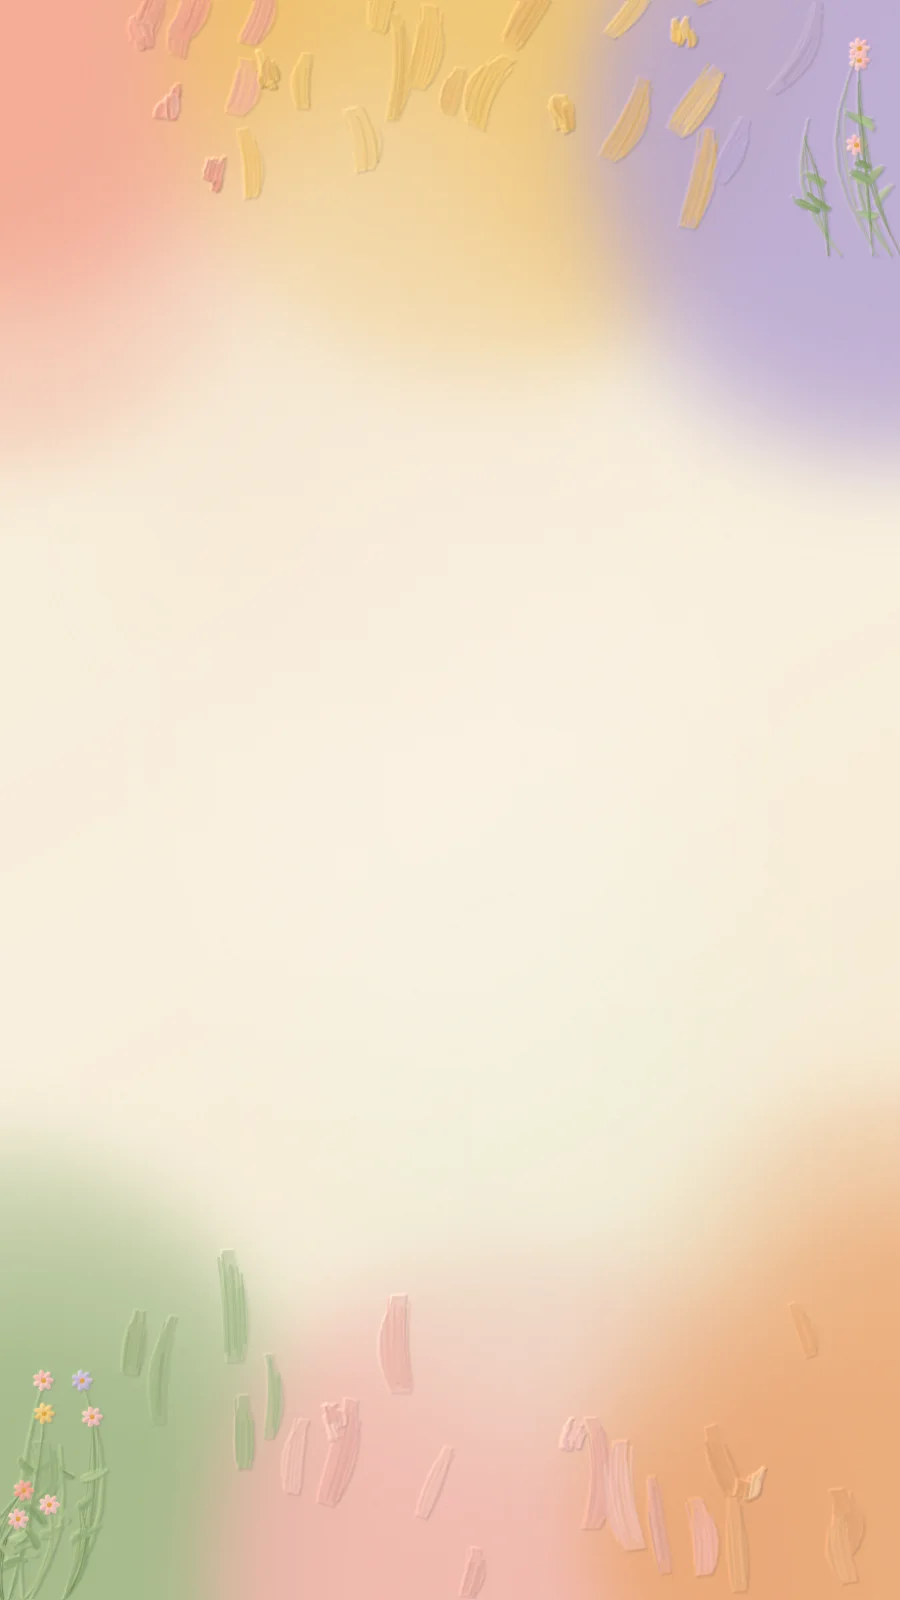
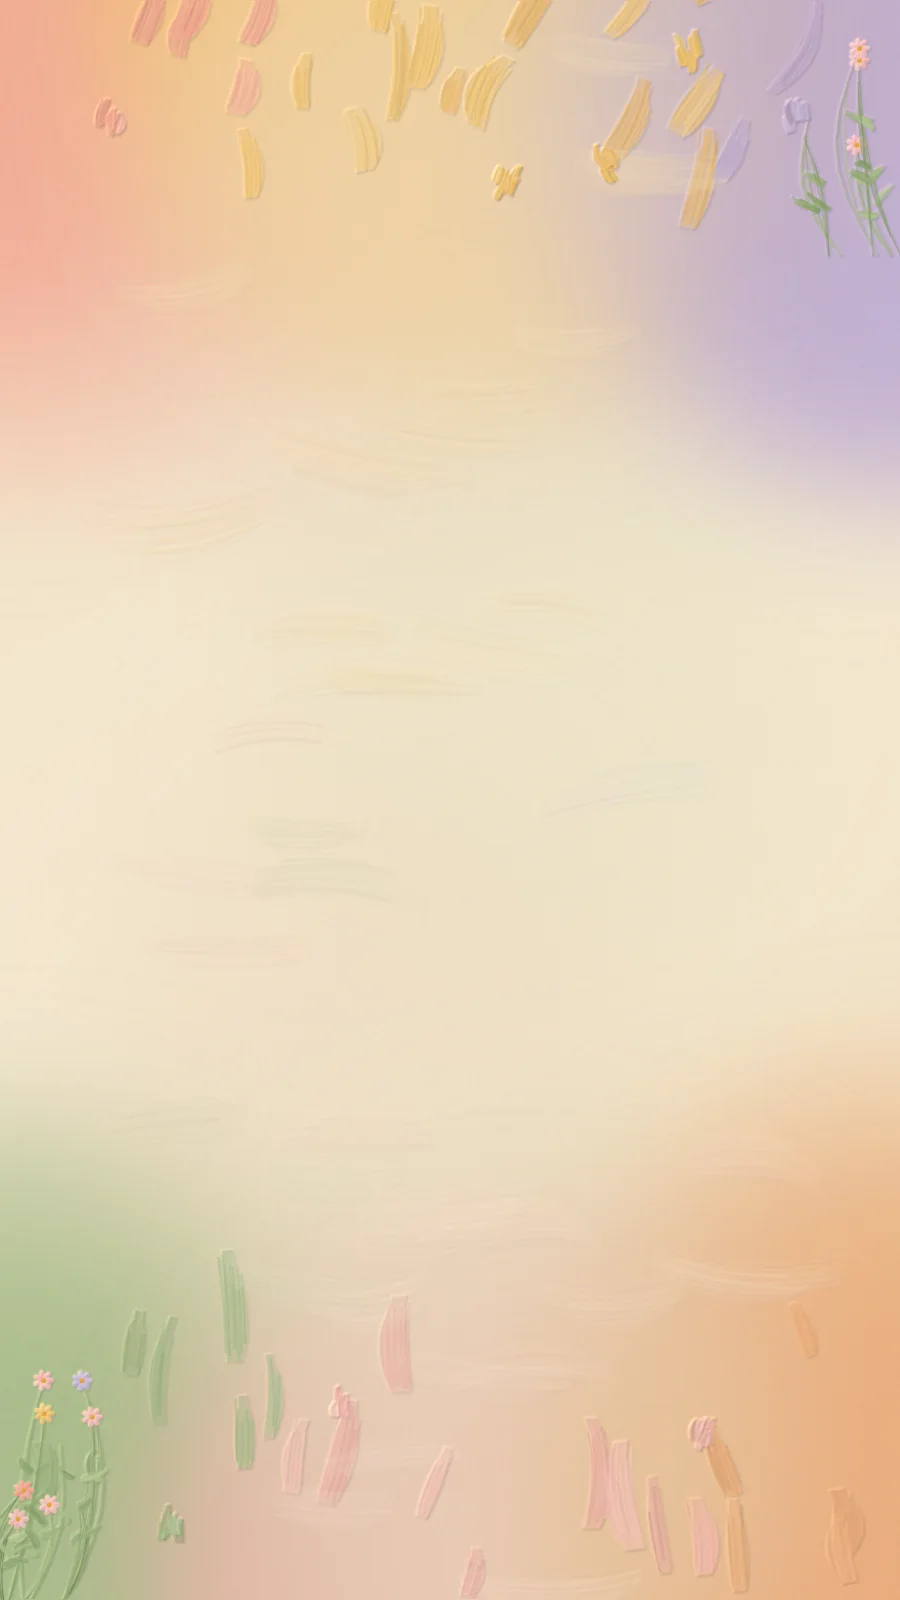
Night: figures stay in the scenes, readable tags; unified backdrop; painted lamp
Night: the moonlit scene painting now sits under each scene's living
figures (it had covered them, hiding the Scene 3 table and rocking chair,
and the dogs, sails and fountain water in Scene 1). Category tags and
badges get deep moss / rose night pills with pale lettering; the footer
follows the night palette.

The case-study backdrop is one continuous painting: warmer, deeper cream,
edge colours fading gradually into a softly tinted, faintly brushed
centre (night versions regraded). The lamppost is repainted by hand over
its old drawing (warm brown-black and bronze, brush texture, soft edges,
a shadow and grass at its foot) and moved a little away from the fountain.

diff --git a/src/app/globals.css b/src/app/globals.css
@@ -260,7 +260,7 @@ body {
    small filters animate; no blend modes, blurs or inherited colour transitions run during the fade. */
 :root { --dusk: 2.2s cubic-bezier(0.45, 0.05, 0.35, 1); }
 /* the page's ink: only pages that opt in (Landing, Work, case studies) and their header change */
-html[data-night-ink]:has(.nightable) :is(header, .nightable) {
+html[data-night-ink]:has(.nightable) :is(header, footer, .nightable) {
   --color-cream: #1e2537;
   --color-paper: #283047;
   --color-ink: #efe8d8;
@@ -383,8 +383,8 @@ html[data-night] .work-night { opacity: 1; }
 html[data-night] :is(.work-layer, .work-girl img) { filter: brightness(0.62) saturate(0.6) hue-rotate(-8deg); }
 html[data-night] .work-page::before { opacity: 0.25; }
 html[data-night-ink] .work-label__title { color: #f4ecd9; text-shadow: 0 0 10px rgb(20 28 48 / 0.95), 0 1px 2px rgb(20 28 48 / 0.9); }
-html[data-night-ink] .work-label__badge { background: rgb(36 44 66 / 0.88); box-shadow: none; }
-html[data-night-ink] .work-label__badge--personal { color: #f0b7b1; }
+html[data-night-ink] .work-label__badge--academic { background: #2f4636; color: #e3eed2; box-shadow: inset 0 0 0 1px rgb(184 203 158 / 0.35); }
+html[data-night-ink] .work-label__badge--personal { background: #4a3036; color: #f8ddd6; box-shadow: inset 0 0 0 1px rgb(233 164 155 / 0.35); }
 
 /* case studies at night: the moonlit backdrop cross-fades in (project images are never filtered) */
 .journal-backdrop::after {
@@ -397,7 +397,11 @@ html[data-night-ink] .work-label__badge--personal { color: #f0b7b1; }
 }
 @media (max-aspect-ratio: 3/4) { .journal-backdrop::after { background-image: url("/assets/garden/journal/journal-mobile-night.webp"); } }
 html[data-night] .journal-backdrop::after { opacity: 1; }
-html[data-night-ink] .nightable .category-badge { background: rgb(216 229 194 / 0.14); }
+/* tags at night: deep, softly tinted pills with pale lettering — clear, but quiet */
+html[data-night-ink] .nightable :is(.category-badge, .category-pill)[data-category="academic"] { background: #2f4636; color: #e3eed2; box-shadow: inset 0 0 0 1px rgb(184 203 158 / 0.35); }
+html[data-night-ink] .nightable :is(.category-badge, .category-pill)[data-category="personal"] { background: #4a3036; color: #f8ddd6; box-shadow: inset 0 0 0 1px rgb(233 164 155 / 0.35); }
+html[data-night-ink] .nightable .category-badge[data-category="academic"] .category-badge__dot { background: #b8cb9e; }
+html[data-night-ink] .nightable .category-badge[data-category="personal"] .category-badge__dot { background: #eba59a; }
 html[data-night-ink] .nightable .cs-num { background: rgb(216 229 194 / 0.12); }
 
 /* ---------- Landing: the painted title ---------- */

diff --git a/src/components/landing/LandingScenes.tsx b/src/components/landing/LandingScenes.tsx
@@ -70,8 +70,9 @@ export default function LandingScenes() {
       {/* ---- Scene 1 · A living garden: the title alone, centred in the first view ---- */}
       <section aria-labelledby="landing-title" className="relative">
         <SceneArt scene={1} />
-        {layers(1)}
+        {/* the night painting goes under the living figures, so they stay in the scene at night */}
         <NightSky scene={1} />
+        {layers(1)}
         <Lamppost />
         <PaintedTitle id="landing-title" className="pointer-events-none absolute inset-x-0 top-[min(38svh,38%)] -translate-y-1/2 px-6 portrait-art:top-[min(38svh,38%)]" />
         {/* a quiet, wordless cue at the foot of the first view */}
@@ -87,16 +88,16 @@ export default function LandingScenes() {
       {/* ---- Scene 2 · Thoughts on the hills: notes that curve with the slopes and appear as you scroll ---- */}
       <section aria-label="Thoughts" className="relative">
         <SceneArt scene={2} />
-        {layers(2)}
         <NightSky scene={2} />
+        {layers(2)}
         <CurvedNotes texts={copy.thoughts} desktop={anchors.desktop} mobile={anchors.mobile} />
       </section>
 
       {/* ---- Scene 3 · Afternoon tea in the garden ---- */}
       <section aria-labelledby="landing-invitation" className="relative">
         <SceneArt scene={3} />
-        {layers(3)}
         <NightSky scene={3} />
+        {layers(3)}
         <Reveal className="absolute top-[11%] left-[74%] w-max max-w-[44vw] -translate-x-1/2 -translate-y-1/2 -rotate-2 portrait-art:top-[13%] portrait-art:left-1/2 portrait-art:max-w-[88vw]">
           <h2
             id="landing-invitation"

diff --git a/src/app/work/page.tsx b/src/app/work/page.tsx
@@ -27,7 +27,7 @@ export default function WorkPage() {
             <li key={p.slug}>
               <Link href={`/work/${p.slug}`} className="group inline-flex min-h-11 items-center gap-2 font-serif text-lg text-ink hover:text-forest">
                 {p.title}
-                <span className={`rounded-full px-2 py-0.5 font-sans text-[0.68rem] font-semibold tracking-[0.12em] uppercase ${p.category === "academic" ? "bg-[#e3ead2] text-moss" : "bg-[#f6dcd6] text-rose"}`}>
+                <span data-category={p.category} className={`category-pill rounded-full px-2 py-0.5 font-sans text-[0.68rem] font-semibold tracking-[0.12em] uppercase ${p.category === "academic" ? "bg-[#e3ead2] text-moss" : "bg-[#f6dcd6] text-rose"}`}>
                   {p.category === "academic" ? "Academic" : "Personal"}
                 </span>
               </Link>

diff --git a/src/components/CategoryBadge.tsx b/src/components/CategoryBadge.tsx
@@ -4,11 +4,12 @@ export default function CategoryBadge({ category }: { category: ProjectCategory 
   const personal = category === "personal";
   return (
     <span
+      data-category={category}
       className={`category-badge inline-flex items-center gap-1.5 rounded-full px-3 py-1 text-xs font-semibold tracking-wide uppercase ${
         personal ? "bg-[#f7ddd3] text-[#8a4a3c]" : "bg-[#dfe7d2] text-forest"
       }`}
     >
-      <span aria-hidden="true" className={`size-1.5 rounded-full ${personal ? "bg-[#c4705c]" : "bg-moss"}`} />
+      <span aria-hidden="true" className={`category-badge__dot size-1.5 rounded-full ${personal ? "bg-[#c4705c]" : "bg-moss"}`} />
       {personal ? "Personal Project" : "Academic Project"}
     </span>
   );

diff --git a/src/components/landing/Lamppost.tsx b/src/components/landing/Lamppost.tsx
@@ -18,7 +18,7 @@ export default function Lamppost() {
       onClick={() => setNight(!night)}
       aria-pressed={night}
       aria-label={night ? "Return to daylight" : "Light up the garden"}
-      className="lamppost group absolute -translate-x-1/2 -translate-y-full left-[19.5%] top-[64%] w-[4.8%] portrait-art:left-[11%] portrait-art:top-[75%] portrait-art:w-[7.5%]"
+      className="lamppost group absolute -translate-x-1/2 -translate-y-full left-[16.5%] top-[65%] w-[4.8%] portrait-art:left-[12%] portrait-art:top-[73%] portrait-art:w-[7.5%]"
     >
       <span aria-hidden="true" className="lamppost__pool" />
       <span aria-hidden="true" className="lamppost__glow" />
